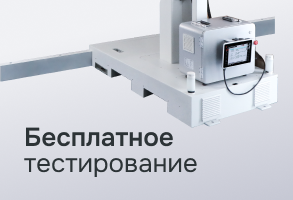
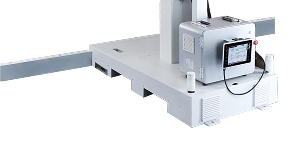
фиксы

diff --git a/pages/catalog/sass/subcategories/subcategories-page.scss b/pages/catalog/sass/subcategories/subcategories-page.scss
@@ -225,41 +225,41 @@
     &__wrapper {
       position: relative;
     }
-    &__ads {
-      display: block;
-      height: 200px;
-      transition: opacity .3s ease;
-      border-radius: 16px;
-      overflow: hidden;
-      cursor: pointer;
-      img {
-        width: 100%;
-        height: 100%;
-        object-fit: contain;
-      }
-      &:hover {
-        opacity: 0.9;
-      }
-    }
     &__links {
       display: flex;
       flex-direction: column;
       gap: 16px;
     }
-    &__calculator {
+    &__ads {
       position: relative;
       padding: 24px;
-      background: linear-gradient(45deg, #0071e3 0%, #76c8df 100%);
+      height: 200px;
+      transition: opacity .3s ease;
+      border-radius: 16px;
+      overflow: hidden;
+      background: linear-gradient(143deg, #f0f1f4 0%, #c5c7d3 100%);
+      cursor: pointer;
       p {
-        margin-top: 74px;
+        margin-top: 100px;
         font-size: 26px;
         line-height: 100%;
-        color: #fff;
+       color: #2c3336;
       }
       img {
+        z-index: 1;
         position: absolute;
         top: 0px;
         left: 0px;
+      }
+      &:hover {
+        opacity: 0.9;
+      }
+    }
+    &__calculator {
+      background: linear-gradient(45deg, #0071e3 0%, #76c8df 100%);
+      p {
+        margin-top: 74px;
+        color: #fff;
       }
     }
   }

diff --git a/pages/catalog/sass/subcategories/subcategories-page-media.scss b/pages/catalog/sass/subcategories/subcategories-page-media.scss
@@ -94,11 +94,12 @@
       &__ads {
         max-height: 140px;
         width: 100%;
+        padding: 16px;
         border-radius: 0;
         top: 10%;
-        img {
-          width: 100%;
-          object-fit: cover;
+        p {
+          margin-top: 75px;
+          font-size: 18px;
         }
       }
       &.active {
@@ -112,15 +113,9 @@
         }
       }
       &__calculator { 
-        max-height: 140px;
-        padding: 16px;
-        p {
-          font-size: 18px;
-        }
+        border-radius: 0 0 16px 16px;
         img {
-          position: absolute;
-          top: 0px;
-          left: 0px;
+          left: 35px;
         }
       }
       &__links {

diff --git a/pages/catalog/subcategories-page.html b/pages/catalog/subcategories-page.html
@@ -1365,6 +1365,7 @@
                 </div>
                 <div class="catalog-aside__links">
                   <a href="#" class="catalog-aside__ads show-test-popup">
+                    <p><b>Бесплатное</b> <br> тестирование</p>
                     <img src="/images/catalog/catalog-aside__ads.png" alt="">
                   </a>
 